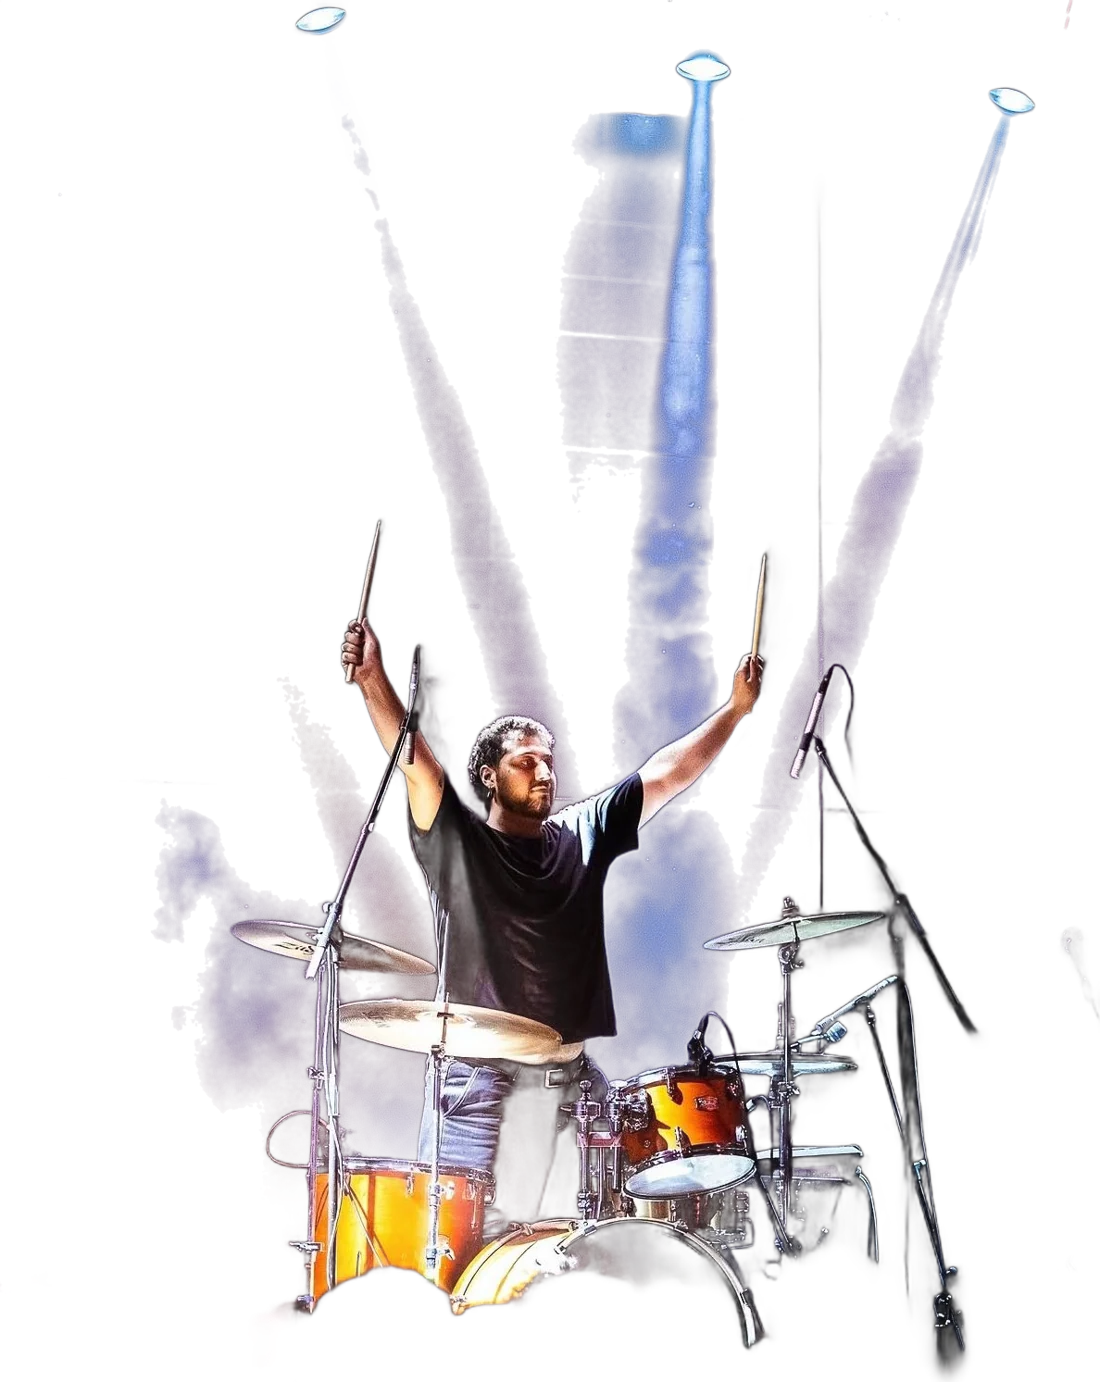
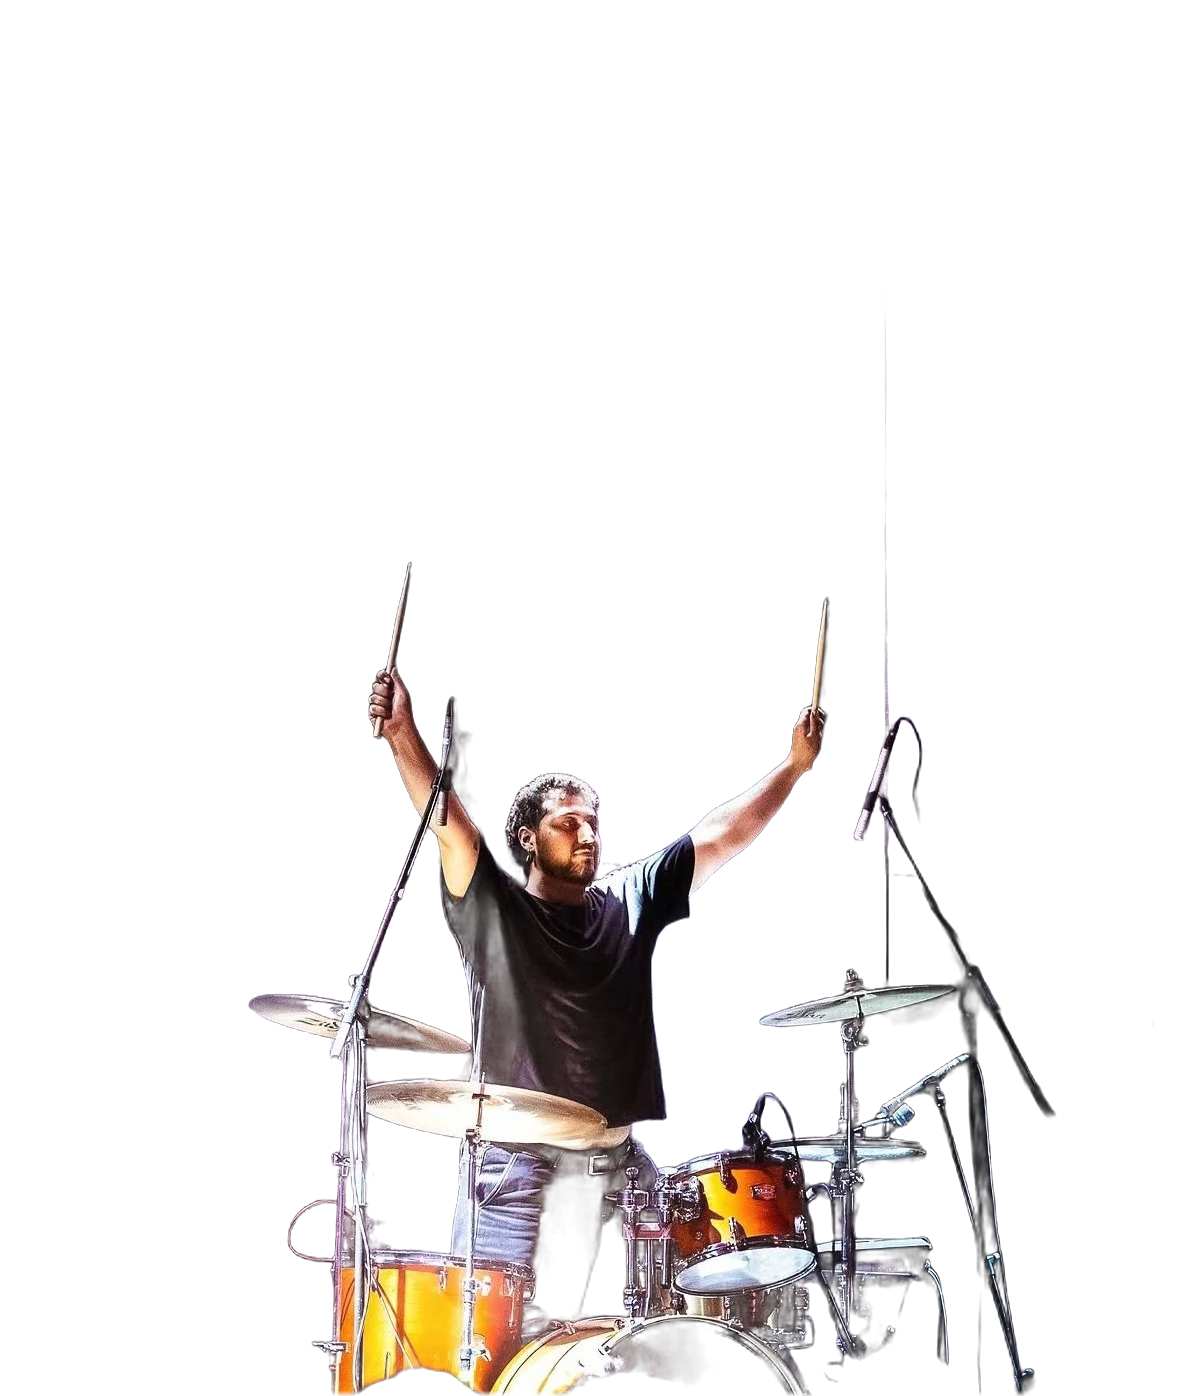
Hero: clean cutout standing on the marquee, drawn swaying spotlights
Claude-Session: https://claude.ai/code/session_012AjCehXUDvzNp538WpSM3j

diff --git a/styles.css b/styles.css
@@ -192,12 +192,23 @@ body.menu-open .topbar { background: transparent; border-color: transparent; col
   border: 1.5px solid var(--ink); transform: rotate(-3deg);
   box-shadow: 14px 14px 0 var(--green), 0 40px 60px rgba(0, 0, 0, .25);
 }
-.hero__figure.is-cutout { width: min(46vw, 70vh, 640px); top: 55%; }
+.hero__figure.is-cutout { width: min(44vw, 64vh, 620px); top: auto; bottom: 0; transform: translateX(-50%); animation: none; }
 .hero__figure.is-cutout img {
   aspect-ratio: auto; object-fit: contain; border: 0; transform: none; box-shadow: none;
-  filter: drop-shadow(0 30px 30px rgba(0, 0, 0, .18));
+  filter: none;
 }
-.hero__figure.is-cutout .credit--hero { bottom: 4px; left: auto; right: 0; transform: none; }
+.hero__figure.is-cutout img { position: relative; z-index: 1; }
+.hero__figure.is-cutout .credit--hero { bottom: 10px; left: auto; right: -110px; transform: none; z-index: 3; }
+.beams { position: absolute; inset: 0; width: 100%; height: 100%; z-index: 0; overflow: visible; mix-blend-mode: multiply; }
+.beam path { fill: url(#beam-g); filter: blur(10px); }
+.beam ellipse { fill: var(--ink); }
+.beam { transform-box: view-box; opacity: .85; transition: opacity .12s; }
+.beam--1 { transform-origin: 345px 30px; animation: sway 7s ease-in-out infinite alternate; }
+.beam--2 { transform-origin: 762px 20px; animation: sway 9s ease-in-out -3s infinite alternate-reverse; }
+.beam--3 { transform-origin: 1084px 46px; animation: sway 8s ease-in-out -5s infinite alternate; }
+@keyframes sway { from { transform: rotate(-5deg); } to { transform: rotate(5deg); } }
+body.beat .beam { opacity: 1; }
+body.beat .beam path { filter: blur(6px) brightness(1.15); }
 .kit { width: 100%; color: var(--ink); filter: drop-shadow(0 30px 30px rgba(0, 0, 0, .12)); }
 .kit__logo { font-family: var(--f-display); font-size: 34px; fill: var(--green); letter-spacing: .04em; }
 @keyframes float { 50% { transform: translate(-50%, calc(-50% - 12px)); } }
@@ -681,7 +692,9 @@ body.beat .hero__word--outline { -webkit-text-stroke-color: var(--green); }
   .hero__word { font-size: 31vw; }
   .hero__figure { position: relative; grid-row: 3; left: auto; top: auto; transform: none; width: min(78vw, 420px); margin: -14vw auto 0; animation: none; }
   .hero__figure:has(img) { width: min(66vw, 340px); top: auto; margin-top: -10vw; margin-bottom: 26px; }
-  .hero__figure.is-cutout { width: min(86vw, 380px); top: auto; margin-top: -14vw; margin-bottom: 0; }
+  .hero__figure.is-cutout { grid-row: 4; width: min(92vw, 400px); bottom: auto; margin: 10px auto -28px; transform: none; }
+  .hero:has(.is-cutout) .hero__bottom { grid-row: 3; margin-top: 22px; }
+  .hero__figure.is-cutout .credit--hero { right: 0; bottom: 36px; }
   .callout { display: none; }
   .hero__bottom { grid-row: 4; margin-top: 18px; }
   .badge { width: 104px; height: 104px; }

diff --git a/main.js b/main.js
@@ -69,6 +69,19 @@
       '<text x="215" y="276" text-anchor="middle" class="kit__logo">OMRI</text>' +
     "</svg>";
 
+  // זרקורים מצוירים מאחורי התמונה הגזורה (באותן קואורדינטות של התמונה)
+  var BEAMS_SVG =
+    '<svg class="beams" viewBox="0 0 1191 1396" aria-hidden="true">' +
+      '<defs><linearGradient id="beam-g" x1="0" y1="0" x2="0" y2="1">' +
+        '<stop offset="0" stop-color="var(--green-lt)" stop-opacity=".9"/>' +
+        '<stop offset=".55" stop-color="var(--green-lt)" stop-opacity=".35"/>' +
+        '<stop offset="1" stop-color="var(--green-lt)" stop-opacity="0"/>' +
+      '</linearGradient></defs>' +
+      '<g class="beam beam--1"><path d="M330 34 L360 34 L660 1300 L380 1300Z"/><ellipse cx="345" cy="30" rx="34" ry="12"/></g>' +
+      '<g class="beam beam--2"><path d="M748 24 L776 24 L760 1300 L470 1300Z"/><ellipse cx="762" cy="20" rx="34" ry="12"/></g>' +
+      '<g class="beam beam--3"><path d="M1070 50 L1098 50 L900 1300 L650 1300Z"/><ellipse cx="1084" cy="46" rx="34" ry="12"/></g>' +
+    "</svg>";
+
   /* ---------- HERO ---------- */
   slot("tagline").textContent = S.tagline || "";
   slot("subline").textContent = S.subline || "";
@@ -85,7 +98,11 @@
   function creditLink(cls) {
     return PC ? '<a class="credit ' + cls + ' mono" href="' + esc(PC.url) + '" target="_blank" rel="noopener">Photo: ' + esc(PC.name) + "</a>" : "";
   }
-  if (S.heroCutout) slot("hero-figure").classList.add("is-cutout");
+  if (S.heroCutout) {
+    var fig = slot("hero-figure");
+    fig.classList.add("is-cutout");
+    fig.insertAdjacentHTML("afterbegin", BEAMS_SVG);
+  }
   if (S.heroImage && PC) slot("hero-figure").insertAdjacentHTML("beforeend", creditLink("credit--hero"));
 
   /* ---------- MARQUEE ---------- */
